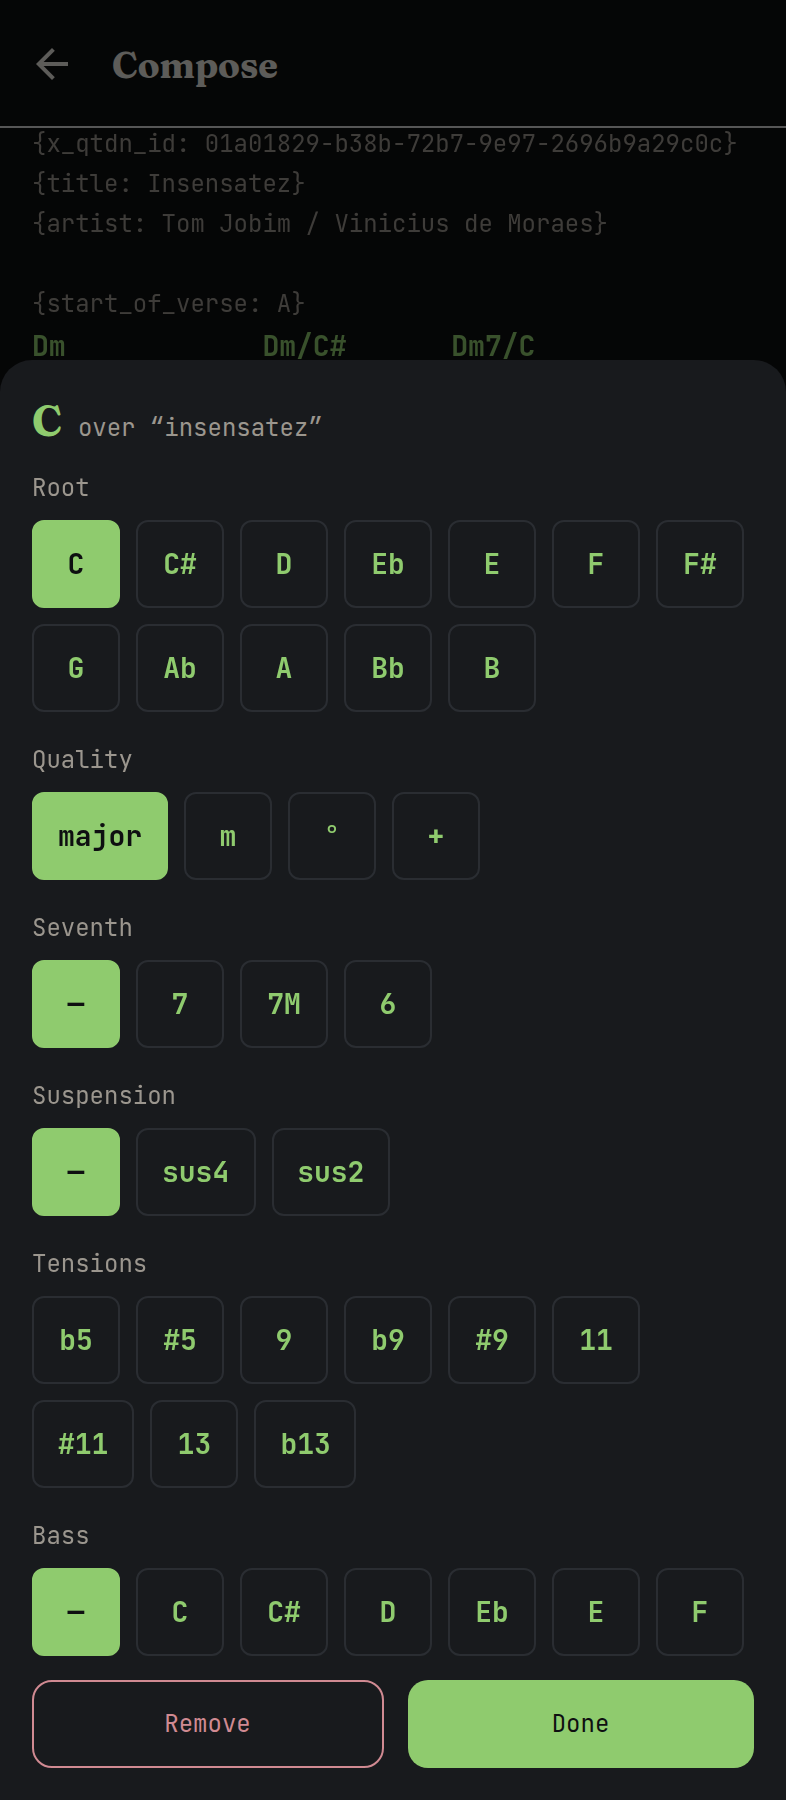
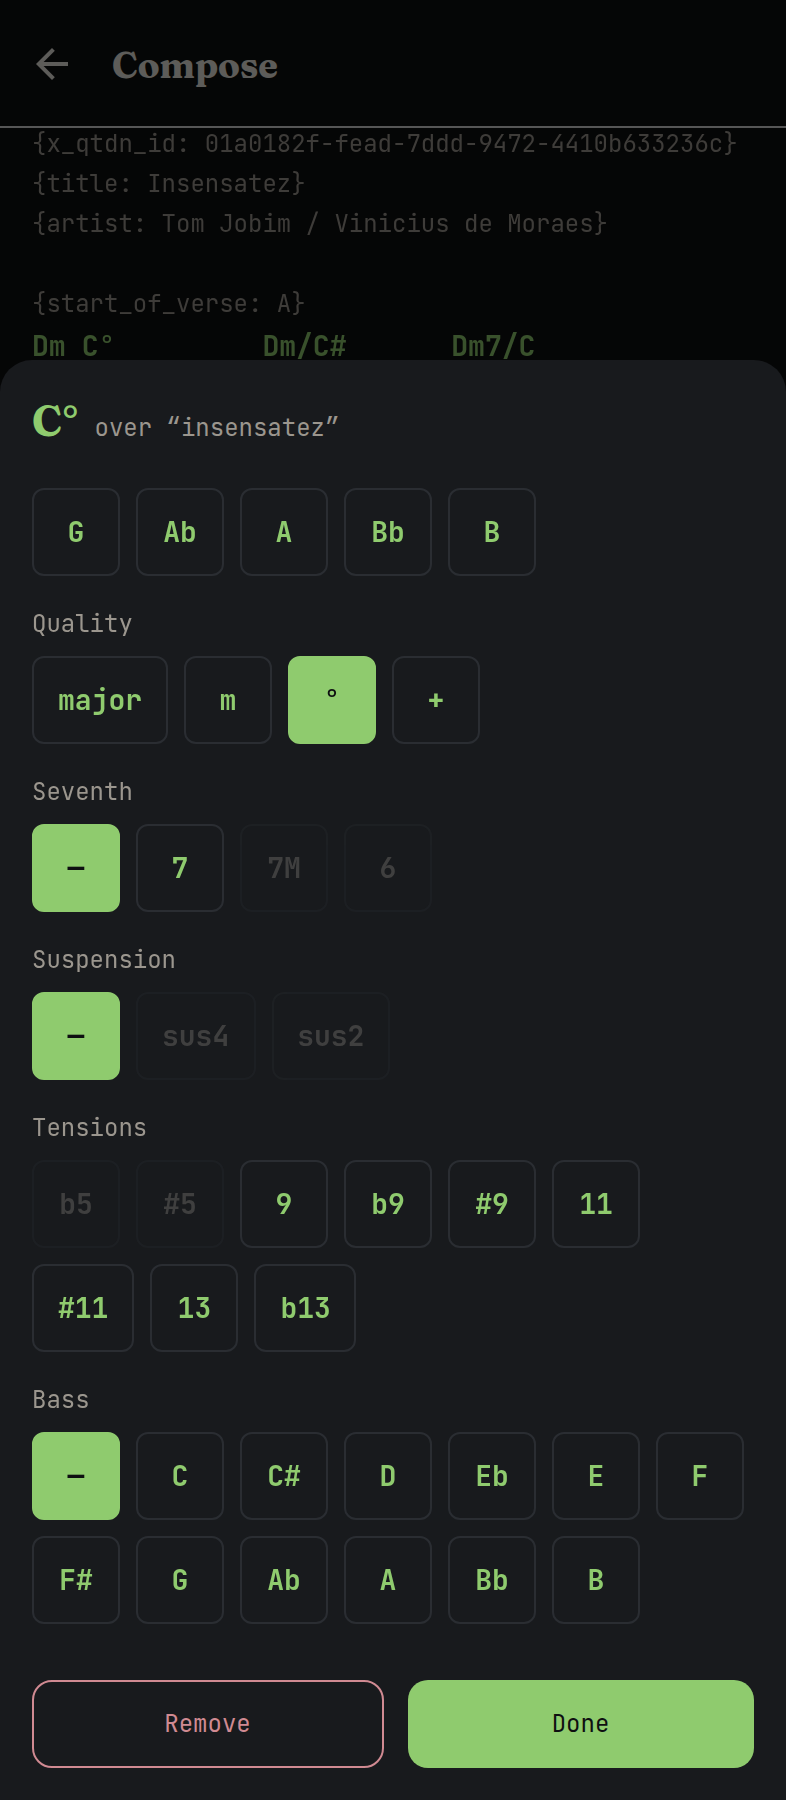
fix: forbid chord combinations that are not music
The builder let you assemble C°7M — a diminished chord with a major seventh —
along with Cmsus4, which claims a minor third and no third at once, C°(b5),
which restates a fifth the symbol already altered, and C7(9,b9), a ninth that is
both natural and flattened. Independent rows made every combination reachable.

The rows are not independent, so the rules now live in the domain beside the
vocabulary they constrain:

- A diminished chord takes only `°` or `°7`; an augmented chord is complete in
  itself. The augmented dominant and augmented major seventh are written as
  alterations on the plain forms, C7(#5) and C7M(#5), which the builder already
  expresses.
- A suspension replaces the third, so it cannot sit on a quality that states one.
- `b5` and `#5` are withheld from chords whose fifth is already altered.
- `sus4` and an eleventh are the same note, as are `sus2` and a ninth.
- Tensions naming the same degree replace each other.

Invalid options are dimmed rather than removed: a row that changes length as you
touch it is disorienting, and a greyed 7M on a diminished chord says something a
missing one does not. Choosing something that invalidates an earlier pick drops
it, so the symbol on screen is always playable.

Two bugs found while capturing this. The sheet closed on the first chip pressed,
because applying a chord cleared the compose screen's target — which made
everything past the root unreachable in a picker whose whole purpose is building
[…]

diff --git a/apps/mobile/src/ui/components/ChordPicker.tsx b/apps/mobile/src/ui/components/ChordPicker.tsx
@@ -6,7 +6,10 @@ import {
   SUSPENSIONS,
   TENSIONS,
   buildChord,
+  optionsFor,
   parseChord,
+  toggleTension,
+  update,
   type ChordSpec,
 } from '@qtdn/chordpro';
 import { useEffect, useState } from 'react';
@@ -28,10 +31,16 @@ export interface ChordPickerProps {
 /**
  * Builds a chord rather than choosing one from a list.
  *
- * Each row is one independent decision — root, quality, seventh, suspension, tensions,
- * bass — and the symbol above updates as they change. Enumerating every chord a musician
- * might want was never going to work; the parts are finite, and combining them can only
- * produce a well-formed cifra symbol.
+ * Each row is one decision — root, quality, seventh, suspension, tensions, bass — and the
+ * symbol above updates as they change. Enumerating every chord a musician might want was
+ * never going to work; the parts are finite, and combining them can only produce a
+ * well-formed cifra symbol.
+ *
+ * The rows are not independent. A diminished chord cannot take a major seventh, and a
+ * suspension cannot sit on a chord that already states a third, so options that stop
+ * making sense are dimmed rather than removed — a row that changes length as you touch it
+ * is disorienting, and the greyed chip says what is possible. Choosing something that
+ * invalidates an earlier pick drops it, so the symbol on screen is always playable.
  */
 export function ChordPicker({ visible, word, current, onSelect, onDismiss }: ChordPickerProps) {
   const [spec, setSpec] = useState<ChordSpec>(EMPTY_SPEC);
@@ -43,16 +52,31 @@ export function ChordPicker({ visible, word, current, onSelect, onDismiss }: Cho
   }, [visible, current]);
 
   const symbol = buildChord(spec);
-  const patch = (over: Partial<ChordSpec>) => {
-    const next = { ...spec, ...over };
+  const options = optionsFor(spec);
+
+  const commit = (next: ChordSpec) => {
     setSpec(next);
     onSelect(buildChord(next));
+  };
+  const patch = (over: Partial<ChordSpec>) => {
+    commit(update(spec, over));
   };
 
   return (
     <Modal visible={visible} animationType="slide" transparent onRequestClose={onDismiss}>
-      <Pressable style={styles.backdrop} onPress={onDismiss}>
-        <Pressable style={styles.sheet} onPress={() => undefined}>
+      <View style={styles.container}>
+        {/*
+          The backdrop is a sibling of the sheet, not its parent. Nesting them meant every
+          press inside the sheet bubbled out and dismissed it, so choosing a chord closed
+          the picker before you could choose anything else.
+        */}
+        <Pressable
+          accessibilityRole="button"
+          accessibilityLabel="Dismiss"
+          style={StyleSheet.absoluteFill}
+          onPress={onDismiss}
+        />
+        <View style={styles.sheet}>
           <View style={styles.header}>
             <Text variant="heading" tone="chord">
               {symbol}
@@ -95,6 +119,7 @@ export function ChordPicker({ visible, word, current, onSelect, onDismiss }: Cho
                   key={seventh || 'none'}
                   label={seventh === '' ? '—' : seventh}
                   selected={seventh === spec.seventh}
+                  disabled={!options.sevenths.includes(seventh)}
                   onPress={() => {
                     patch({ seventh });
                   }}
@@ -108,6 +133,7 @@ export function ChordPicker({ visible, word, current, onSelect, onDismiss }: Cho
                   key={sus || 'none'}
                   label={sus === '' ? '—' : sus}
                   selected={sus === spec.sus}
+                  disabled={!options.suspensions.includes(sus)}
                   onPress={() => {
                     patch({ sus });
                   }}
@@ -121,12 +147,9 @@ export function ChordPicker({ visible, word, current, onSelect, onDismiss }: Cho
                   key={tension}
                   label={tension}
                   selected={spec.tensions.includes(tension)}
+                  disabled={!options.tensions.includes(tension)}
                   onPress={() => {
-                    patch({
-                      tensions: spec.tensions.includes(tension)
-                        ? spec.tensions.filter((value) => value !== tension)
-                        : [...spec.tensions, tension],
-                    });
+                    commit(toggleTension(spec, tension));
                   }}
                 />
               ))}
@@ -159,13 +182,14 @@ export function ChordPicker({ visible, word, current, onSelect, onDismiss }: Cho
               variant="danger"
               onPress={() => {
                 onSelect(null);
+                onDismiss();
               }}
               style={{ flex: 1 }}
             />
             <Button label="Done" variant="primary" onPress={onDismiss} style={{ flex: 1 }} />
           </View>
-        </Pressable>
-      </Pressable>
+        </View>
+      </View>
     </Modal>
   );
 }
@@ -184,20 +208,23 @@ function Row({ label, children }: { label: string; children: React.ReactNode }) 
 function Chip({
   label,
   selected,
+  disabled = false,
   onPress,
 }: {
   label: string;
   selected: boolean;
+  disabled?: boolean;
   onPress: () => void;
 }) {
   return (
     <Pressable
       accessibilityRole="button"
-      accessibilityState={{ selected }}
+      accessibilityState={{ selected, disabled }}
+      disabled={disabled}
       onPress={onPress}
-      style={[styles.chip, selected && styles.chipSelected]}
+      style={[styles.chip, selected && styles.chipSelected, disabled && styles.chipDisabled]}
     >
-      <Text variant="chord" tone={selected ? 'background' : 'chord'}>
+      <Text variant="chord" tone={selected ? 'background' : disabled ? 'textMuted' : 'chord'}>
         {label}
       </Text>
     </Pressable>
@@ -205,7 +232,7 @@ function Chip({
 }
 
 const styles = StyleSheet.create({
-  backdrop: { flex: 1, justifyContent: 'flex-end', backgroundColor: color.backdrop },
+  container: { flex: 1, justifyContent: 'flex-end', backgroundColor: color.backdrop },
   sheet: {
     backgroundColor: color.surface,
     borderTopLeftRadius: radius.lg,
@@ -228,5 +255,8 @@ const styles = StyleSheet.create({
     borderColor: color.border,
   },
   chipSelected: { backgroundColor: color.accent, borderColor: color.accent },
+  // Shown rather than hidden: a row that changes length as you select is disorienting,
+  // and seeing that `7M` exists but is unavailable on a diminished chord is informative.
+  chipDisabled: { opacity: 0.3 },
   actions: { flexDirection: 'row', gap: space.md },
 });

diff --git a/packages/chordpro/src/chord.ts b/packages/chordpro/src/chord.ts
@@ -117,6 +117,92 @@ export function parseChord(symbol: string): ChordSpec | null {
   return rest === '' ? { root, quality, seventh, sus, tensions, bass } : null;
 }
 
+/**
+ * Tensions that describe the same degree. At most one of each may be chosen, because
+ * `C7(9,b9)` names a ninth that is both natural and flattened.
+ */
+const FAMILIES: readonly (readonly string[])[] = [
+  ['b5', '#5'],
+  ['9', 'b9', '#9'],
+  ['11', '#11'],
+  ['13', 'b13'],
+];
+
+export interface ChordOptions {
+  readonly sevenths: readonly Seventh[];
+  readonly suspensions: readonly Suspension[];
+  readonly tensions: readonly string[];
+}
+
+/**
+ * Which choices remain musically coherent given what is already selected.
+ *
+ * The rules, and why each exists:
+ *
+ * - A diminished chord already carries a diminished fifth and a minor third, so `7M` and
+ *   `6` do not apply to it; `°` and `°7` are the whole vocabulary. An augmented chord is
+ *   complete in itself — the augmented dominant and augmented major seventh are written
+ *   as alterations on the plain forms, `C7(#5)` and `C7M(#5)`, which this builder can
+ *   already express.
+ * - A suspension replaces the third, so it cannot combine with a quality that states one.
+ *   `Cmsus4` claims a minor third and no third at once.
+ * - `b5` and `#5` restate the fifth that `°` and `+` have already altered.
+ * - `sus4` and an eleventh are the same note, as are `sus2` and a ninth.
+ */
+export function optionsFor(spec: ChordSpec): ChordOptions {
+  const sevenths: readonly Seventh[] =
+    spec.quality === '°' ? ['', '7'] : spec.quality === '+' ? [''] : SEVENTHS;
+
+  const suspensions: readonly Suspension[] = spec.quality === '' ? SUSPENSIONS : [''];
+
+  const tensions = TENSIONS.filter((tension) => {
+    if ((spec.quality === '°' || spec.quality === '+') && (tension === 'b5' || tension === '#5')) {
+      return false;
+    }
+    if (spec.sus === 'sus4' && tension === '11') return false;
+    if (spec.sus === 'sus2' && tension === '9') return false;
+    return true;
+  });
+
+  return { sevenths, suspensions, tensions };
+}
+
+/** Drops any selection the current quality or suspension has just invalidated. */
+export function normalize(spec: ChordSpec): ChordSpec {
+  const options = optionsFor(spec);
+  const seventh = options.sevenths.includes(spec.seventh) ? spec.seventh : '';
+  const sus = options.suspensions.includes(spec.sus) ? spec.sus : '';
+
+  const kept: string[] = [];
+  for (const tension of TENSIONS) {
+    if (!spec.tensions.includes(tension)) continue;
+    if (!optionsFor({ ...spec, seventh, sus }).tensions.includes(tension)) continue;
+    if (FAMILIES.some((family) => family.includes(tension) && kept.some((k) => family.includes(k)))) {
+      continue;
+    }
+    kept.push(tension);
+  }
+
+  return { ...spec, seventh, sus, tensions: kept };
+}
+
+/** Applies a change and drops whatever it invalidated. */
+export function update(spec: ChordSpec, patch: Partial<ChordSpec>): ChordSpec {
+  return normalize({ ...spec, ...patch });
+}
+
+/** Adds or removes a tension, replacing any other member of its family. */
+export function toggleTension(spec: ChordSpec, tension: string): ChordSpec {
+  if (spec.tensions.includes(tension)) {
+    return update(spec, { tensions: spec.tensions.filter((value) => value !== tension) });
+  }
+
+  const kept = spec.tensions.filter(
+    (value) => !FAMILIES.some((group) => group.includes(tension) && group.includes(value)),
+  );
+  return update(spec, { tensions: [...kept, tension] });
+}
+
 /** The longest note name the text begins with, so `C#` wins over `C`. */
 function matchNote(text: string): string | null {
   const matches = NOTES.filter((note) => text.startsWith(note)).sort((a, b) => b.length - a.length);

diff --git a/packages/chordpro/test/chord.test.ts b/packages/chordpro/test/chord.test.ts
@@ -9,7 +9,11 @@ import {
   SUSPENSIONS,
   TENSIONS,
   buildChord,
+  normalize,
+  optionsFor,
   parseChord,
+  toggleTension,
+  update,
   type ChordSpec,
 } from '../src/index';
 
@@ -107,5 +111,92 @@ describe('parseChord', () => {
       }),
       { numRuns: 1000 },
     );
+  });
+});
+
+describe('musical validity', () => {
+  it('offers a diminished chord only the sevenths it can carry', () => {
+    expect(optionsFor(spec({ quality: '°' })).sevenths).toEqual(['', '7']);
+  });
+
+  it('offers an augmented chord no seventh at all', () => {
+    // C7(#5) and C7M(#5) are the written forms, and the builder can already make them.
+    expect(optionsFor(spec({ quality: '+' })).sevenths).toEqual(['']);
+  });
+
+  it('allows the minor sixth and the minor/major seventh, which are real chords', () => {
+    expect(optionsFor(spec({ quality: 'm' })).sevenths).toEqual(['', '7', '7M', '6']);
+  });
+
+  it('offers a suspension only when no third is stated', () => {
+    expect(optionsFor(spec({ quality: '' })).suspensions).toEqual(['', 'sus4', 'sus2']);
+    for (const quality of ['m', '°', '+'] as const) {
+      expect(optionsFor(spec({ quality })).suspensions).toEqual(['']);
+    }
+  });
+
+  it('withholds fifth alterations from chords that already alter the fifth', () => {
+    for (const quality of ['°', '+'] as const) {
+      const { tensions } = optionsFor(spec({ quality }));
+      expect(tensions).not.toContain('b5');
+      expect(tensions).not.toContain('#5');
+    }
+  });
+
+  it('withholds a tension that names the same note as the suspension', () => {
+    expect(optionsFor(spec({ sus: 'sus4' })).tensions).not.toContain('11');
+    expect(optionsFor(spec({ sus: 'sus2' })).tensions).not.toContain('9');
+  });
+});
+
+describe('update', () => {
+  it('drops a major seventh when the chord becomes diminished', () => {
+    expect(buildChord(update(spec({ seventh: '7M' }), { quality: '°' }))).toBe('C°');
+  });
+
+  it('drops a suspension when a third is introduced', () => {
+    expect(buildChord(update(spec({ sus: 'sus4' }), { quality: 'm' }))).toBe('Cm');
+  });
+
+  it('drops a fifth alteration when the chord becomes augmented', () => {
+    expect(buildChord(update(spec({ tensions: ['b5'] }), { quality: '+' }))).toBe('C+');
+  });
+
+  it('keeps what remains valid', () => {
+    expect(buildChord(update(spec({ seventh: '7', tensions: ['9'] }), { root: 'G' }))).toBe(
+      'G7(9)',
+    );
+  });
+});
+
+describe('toggleTension', () => {
+  it('replaces another member of the same degree', () => {
+    const ninth = toggleTension(spec({ seventh: '7' }), '9');
+    expect(buildChord(toggleTension(ninth, 'b9'))).toBe('C7(b9)');
+  });
+
+  it('leaves other degrees alone', () => {
+    const withNine = toggleTension(spec({ seventh: '7' }), '9');
+    expect(buildChord(toggleTension(withNine, '13'))).toBe('C7(9,13)');
+  });
+
+  it('removes a tension that is already chosen', () => {
+    const withNine = toggleTension(spec({ seventh: '7' }), '9');
+    expect(buildChord(toggleTension(withNine, '9'))).toBe('C7');
+  });
+
+  it('refuses a tension the current chord cannot take', () => {
+    expect(buildChord(toggleTension(spec({ quality: '°' }), 'b5'))).toBe('C°');
+  });
+});
+
+describe('normalize', () => {
+  it('keeps only the first of two tensions naming the same degree', () => {
+    expect(buildChord(normalize(spec({ seventh: '7', tensions: ['b9', '9'] })))).toBe('C7(9)');
+  });
+
+  it('leaves a coherent chord untouched', () => {
+    const coherent = spec({ root: 'A', quality: 'm', seventh: '7', tensions: ['b5'], bass: 'C' });
+    expect(normalize(coherent)).toEqual(coherent);
   });
 });

diff --git a/apps/mobile/app/compose/[id].tsx b/apps/mobile/app/compose/[id].tsx
@@ -36,12 +36,17 @@ export default function ComposeScreen() {
     );
   }, []);
 
+  /**
+   * Applies the chord and leaves the sheet open.
+   *
+   * The picker builds a chord across several taps, so closing on the first one made
+   * everything past the root unreachable. Dismissing is the sheet's own decision.
+   */
   function applyChord(chord: string | null) {
     if (lines === null || target === null) return;
     const node = lyricAt(lines, target.line);
     if (node === null) return;
     replace(target.line, renderLine(setChordAt(node, target.offset, chord)));
-    setTarget(null);
   }
 
   async function save() {

diff --git a/packages/chordpro/src/index.ts b/packages/chordpro/src/index.ts
@@ -21,9 +21,13 @@ export {
   SUSPENSIONS,
   TENSIONS,
   buildChord,
+  normalize,
+  optionsFor,
   parseChord,
+  toggleTension,
+  update,
 } from './chord';
-export type { ChordSpec, Quality, Seventh, Suspension } from './chord';
+export type { ChordOptions, ChordSpec, Quality, Seventh, Suspension } from './chord';
 export { compose, decompose, setChordAt, setText, words } from './edit';
 export type { Word } from './edit';
 export { parse } from './parse';
